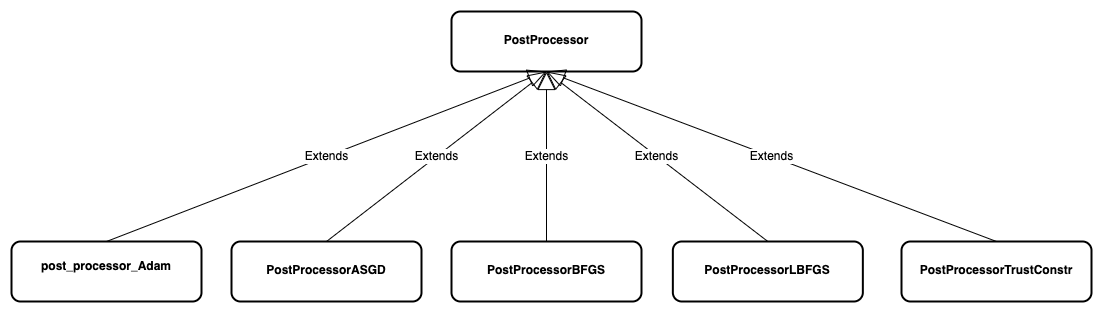
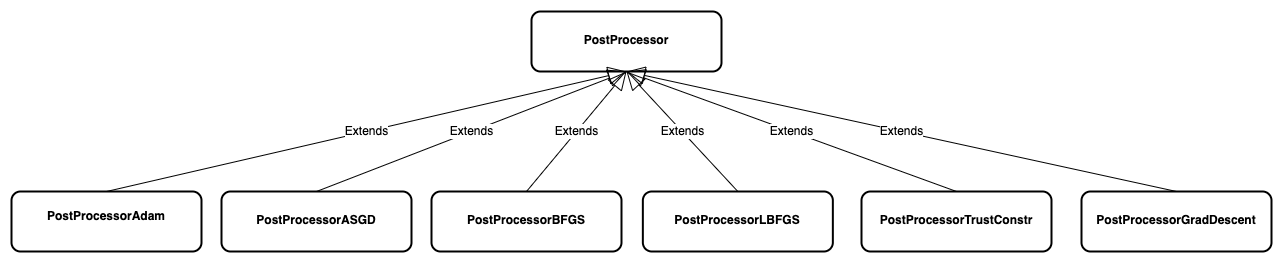
updated the post_processor diagram to include the upcoming grad_descent post processing

diff --git a/ccvm_simulators/README.md b/ccvm_simulators/README.md
@@ -10,12 +10,12 @@ they are presented with two distinct options to conclude their process. They can
 choose to either visually plot the solution or to print the results.
 
 <p align="center">
-    <img src="https://github.com/1QB-Information-Technologies/ccvm/blob/main/diagrams/example_workflow.png?raw=true">
+    <img src="../diagrams/example_workflow.png">
 </p>
 
 ## High-Level Class Diagram
 This diagram offers a concise visualization of the main classes and their interactions within the `ccvm_simulators` package.
 
 <p align="center">
-    <img src="https://github.com/1QB-Information-Technologies/ccvm/blob/main/diagrams/high_level_class_diagram.png?raw=true">
+    <img src="../diagrams/high_level_class_diagram.png">
 </p>

diff --git a/ccvm_simulators/post_processor/README.md b/ccvm_simulators/post_processor/README.md
@@ -1,5 +1,5 @@
 # Post Processor
-There are currently five type of post-processing can be applied at the end of a
+There are currently six type of post-processing can be applied at the end of a
 solve.
 
 - `adam.py`: #TODO
@@ -7,11 +7,12 @@ solve.
 - `dfgs.py`: #TODO
 - `lbfgs.py`: #TODO
 - `trust_constr.py`: #TODO
+- `grad_descent.py`: #TODO
 
 ### Post processor hierarchy
 The diagram delineates the relationships between various post processors and
 their connection to the abstracted post processor class.
 
 <p align="center">
-    <img src="https://github.com/1QB-Information-Technologies/ccvm/blob/main/diagrams/post_processor_%20hierarchy.png?raw=true">
+    <img src="../../diagrams/post_processor_ hierarchy.png">
 </p>

diff --git a/ccvm_simulators/ccvmplotlib/README.md b/ccvm_simulators/ccvmplotlib/README.md
@@ -17,7 +17,7 @@ The diagram provides more details in how plotter library can be used and the ass
 class relationship.
 
 <p align="center">
-    <img src="https://github.com/1QB-Information-Technologies/ccvm/blob/main/diagrams/plottor_class_diagram.png?raw=true">
+    <img src="../../diagrams/plottor_class_diagram.png">
 </p>
 
 
